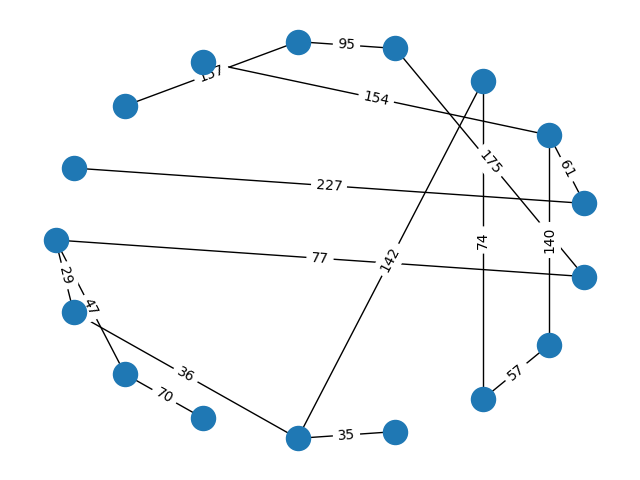
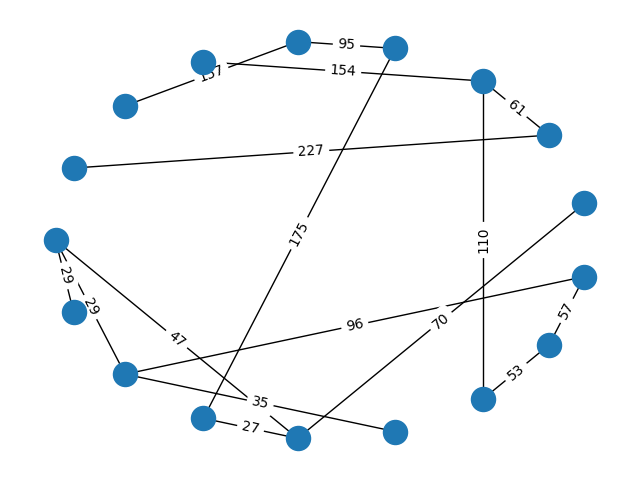
mst preli done; test needed

diff --git a/mst.py b/mst.py
@@ -13,31 +13,43 @@ class MST:
         weighted_edges = {}
         for u, v in edges:
             weighted_edges[(u,v)] = int(graph.get_edge_data(u,v)["weight"])
-        weighted_edges = sorted(weighted_edges.items(), key=lambda x: x[1], reverse=True)
+        weighted_edges = sorted(weighted_edges.items(), key=lambda x: x[1])
 
         # dropping self loops in weighted edge
         i = len(weighted_edges) - 1
-        print(i)
+        # print(i)
         while (weighted_edges[i][1] == 0):
             i -= 1
         weighted_edges = weighted_edges[:i]
 
-        if DEBUG:
-            print("MST weighted Edges: ",weighted_edges)
+        # if DEBUG:
+        #     print("MST weighted Edges: ",weighted_edges)
 
         disjoin_set = dsu.DSU(graph.nodes)
         mst_graph = nx.Graph()
         edge_count = 0
         edge_target = graph.number_of_nodes() - 1
+        self.cost = 0
+        eps = 1e-9
+
+        
+        start = 0
+        end = (start + k) % len(weighted_edges)
+
         while edge_count != edge_target:
-            k_ = min(k, len(weighted_edges))
-            weights = np.array([e[1] for e in weighted_edges[-k_:]])
-            weights = (weights - np.mean(weights)) / np.std(weights)
+            l = len(weighted_edges)
+            # print(start, end)
+            if start > end:
+                weights = np.array([e[1] for e in weighted_edges[start:]] + [e[1] for e in weighted_edges[:end]])
+            else:
+                weights = np.array([e[1] for e in weighted_edges[start:end]])
+            weights = (weights - np.mean(weights)) / max(np.std(weights), eps)
             softmax_values = np.exp(-np.array(weights))
             probabilities = list(softmax_values / sum(softmax_values))
-            selected_edge_index = np.random.choice(np.arange(len(weights)), p=probabilities) + len(weighted_edges) - k_
+            selected_edge_index = (np.random.choice(np.arange(len(weights)), p=probabilities) + start) % l
+            # print(selected_edge_index)
             selected_edge = weighted_edges[selected_edge_index]
-
+            
             u, v = selected_edge[0]
             if disjoin_set.find_parent(u) != disjoin_set.find_parent(v):
                 disjoin_set.union_sets(u, v)
@@ -45,7 +57,16 @@ class MST:
                 mst_graph.add_weighted_edges_from([(u,v,selected_edge[1])])
                 edge_count += 1
             
-            weighted_edges = weighted_edges[:selected_edge_index] + weighted_edges[selected_edge_index+1 :]
+            del weighted_edges[selected_edge_index]
+
+            # start = (end - 1) % l
+            # start = 0
+            if selected_edge_index != start:
+                start = start + 1
+            
+            # start = (selected_edge_index - 1) % l
+            end = (start + k) % l
+            
         return mst_graph
 
     def get_mst(self, graph: nx.Graph) -> nx.Graph:

diff --git a/christofides_nx.py b/christofides_nx.py
@@ -1,0 +1,26 @@
+import networkx as nx
+import tsplib95
+from mst import MST
+import utils
+
+file =  open('data/ts225.tsp')
+graph = tsplib95.read(file).get_graph()
+utils.plot_graph(graph, "graph.png")
+
+mst_lib : nx.Graph = nx.algorithms.minimum_spanning_tree(graph)
+sm = 0
+for e in mst_lib.edges:
+    sm += mst_lib[e[0]][e[1]]['weight']
+print(sm)
+utils.plot_graph(mst_lib, 'mst_lib.png')
+
+for k in range(10):
+    mst = MST()
+    tree = mst.get_mst_k(graph, k = 10)
+    print(mst.get_mst_cost())
+# utils.plot_graph(tree, 'mst.png') 
+
+# tsp = nx.algorithms.approximation.traveling_salesman.christofides
+# path = tsp(graph, tree=tree)
+
+# print(tsp)
